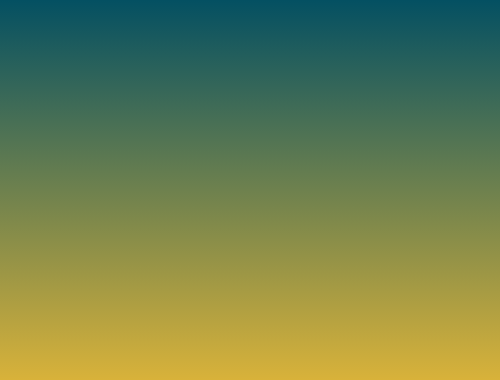
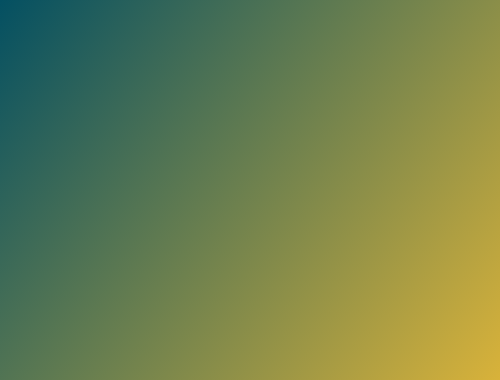
feat: add and update potion cards

diff --git a/scripts/gen_beta_art.py b/scripts/gen_beta_art.py
@@ -77,8 +77,8 @@ BAYER = [
 
 # Card -> (start color, end color, direction, family tag)
 # Cards in a family share the start color. Every pair must be unique;
-# the validate command enforces this. Verticals mark Basics and tokens.
-# Token cards all use a vertical gradient (U or D), which sets them apart from the deck at a glance
+# the validate command enforces this.
+# Direction encodes card type: Attack TR, Skill BR, Power R or L, token vertical (U or D)
 COLORS = {
     "Etch": ("#0b2a4a", "#5fd0e8", "TR", "Unique"),
     "Neurotoxin": ("#5f011f", "#b3bd2a", "TR", "Poison attacks"),
@@ -96,6 +96,7 @@ COLORS = {
     "Slag": ("#45293f", "#c98fd6", "R", "Unique"),
     # Antitoxin: the purple counterpart to the poison reds
     "Slake": ("#2f0170", "#8f6fd8", "TR", "Antitoxin"),
+    "Tincture": ("#2f0170", "#b89ae8", "BR", "Antitoxin"),
     # Poison attacks
     "Flare Up": ("#650101", "#d9b81e", "TR", "Poison attacks"),
     "Spatter": ("#650101", "#7ae801", "TR", "Poison attacks"),
@@ -144,10 +145,12 @@ COLORS = {
     # Potion: attacks
     "Fighting Spirits": ("#045062", "#bf8823", "TR", "Potion: attacks"),
     "Volatile Mix": ("#045062", "#a55d1e", "TR", "Potion: attacks"),
+    "Heavy Dose": ("#045062", "#8f2f2f", "TR", "Potion: attacks"),
     # Potion: engines
     "Bottled Fury": ("#045062", "#e58646", "R", "Potion: engines"),
     "Precipitate": ("#045062", "#e1542b", "BR", "Potion: engines"),
     "Windfall": ("#045062", "#c9dd52", "R", "Potion: engines"),
+    "Afterglow": ("#045062", "#f0c46a", "BR", "Potion: engines"),
     # Azoth (one-off)
     "Azoth": ("#1f1723", "#8a5f9e", "TR", "Unique"),
     # Fumigate (one-off)
@@ -158,7 +161,7 @@ COLORS = {
     "Anneal": ("#1f1723", "#7f9aa8", "BR", "Exhaust pile: skills"),
     # Poison as a resource to spend
     "Hemorrhage": ("#00212a", "#0d8a6b", "TR", "Poison payoffs"),
-    "Overflow": ("#00212a", "#10aba5", "TR", "Poison payoffs"),
+    "Overflow": ("#00212a", "#10aba5", "BR", "Poison payoffs"),
     "Circulation": ("#14424e", "#b8e86a", "BR", "Poison payoffs"),
     # Poison skills
     "Fester": ("#4e8701", "#0139b2", "BR", "Poison skills"),
@@ -210,9 +213,9 @@ COLORS = {
     # Defend (Basic)
     "Defend": ("#0f2a43", "#2b6ea8", "TR", "Unique"),
     # Spike (Basic): the starter dose, anchored on the Poison-attack red
-    "Spike": ("#650101", "#4fbf3a", "D", "Unique"),
+    "Spike": ("#650101", "#4fbf3a", "TR", "Unique"),
     # Flask (Basic): the starter brew, anchored on the potion teal
-    "Flask": ("#045062", "#d8b23a", "D", "Unique"),
+    "Flask": ("#045062", "#d8b23a", "BR", "Unique"),
     # Nigredo (token)
     # Albedo (token)
     # Rubedo (token)

diff --git a/AlchemistCode/Cards/Rare/Afterglow.cs b/AlchemistCode/Cards/Rare/Afterglow.cs
@@ -1,0 +1,46 @@
+using BaseLib.Utils;
+using MegaCrit.Sts2.Core.Combat;
+using MegaCrit.Sts2.Core.Combat.History.Entries;
+using MegaCrit.Sts2.Core.Commands;
+using MegaCrit.Sts2.Core.Entities.Cards;
+using MegaCrit.Sts2.Core.GameActions.Multiplayer;
+using MegaCrit.Sts2.Core.Localization;
+using System.Linq;
+
+namespace Alchemist.AlchemistCode.Cards.Rare;
+
+public class Afterglow : AlchemistCard
+{
+    public Afterglow() : base(2, CardType.Skill, CardRarity.Rare, TargetType.Self)
+    {
+        WithCostUpgradeBy(-1);
+        WithKeyword(CardKeyword.Exhaust);
+    }
+
+    // Combat history is shared, so the Actor filter keeps this to the owner's own Potions rather than
+    // counting an ally drinking in multiplayer
+    private int PotionsUsedThisCombat =>
+        !IsMutable || CombatState == null
+            ? 0
+            : CombatManager.Instance.History.Entries.OfType<PotionUsedEntry>()
+                .Count(e => e.Actor == Owner.Creature);
+
+    protected override bool ConditionalGlow => PotionsUsedThisCombat > 0;
+
+    protected override void AddExtraArgsToDescription(LocString description)
+    {
+        base.AddExtraArgsToDescription(description);
+        description.Add("UsedLine",
+            PotionsUsedThisCombat is var n and > 0
+                ? PreviewLine("ALCHEMIST-POTIONS_USED_LINE", "Potions", n)
+                : "");
+    }
+
+    protected override async Task OnPlay(PlayerChoiceContext choiceContext, CardPlay play)
+    {
+        var used = PotionsUsedThisCombat;
+        if (used <= 0) return;
+        await PlayerCmd.GainEnergy(used, Owner);
+        await CardPileCmd.Draw(choiceContext, used, Owner);
+    }
+}

diff --git a/AlchemistCode/Cards/Uncommon/Transmute.cs b/AlchemistCode/Cards/Uncommon/Transmute.cs
@@ -1,12 +1,13 @@
 using Alchemist.AlchemistCode.Compat;
+using Alchemist.AlchemistCode.Powers;
+using BaseLib.Utils;
 using MegaCrit.Sts2.Core.Commands;
 using MegaCrit.Sts2.Core.Entities.Cards;
 using MegaCrit.Sts2.Core.Entities.Potions;
 using MegaCrit.Sts2.Core.Factories;
 using MegaCrit.Sts2.Core.GameActions.Multiplayer;
-using MegaCrit.Sts2.Core.Models;
 using MegaCrit.Sts2.Core.Models.Powers;
-using Alchemist.AlchemistCode.Powers;
+using MegaCrit.Sts2.Core.Models;
 
 namespace Alchemist.AlchemistCode.Cards.Uncommon;
 
@@ -17,6 +18,7 @@ public class Transmute : AlchemistCard
     public Transmute() : base(0, CardType.Skill, CardRarity.Uncommon, TargetType.Self)
     {
         WithKeyword(CardKeyword.Exhaust);
+        WithCards(1, 1);
         WithTip(typeof(PoisonPower));
         WithTip(typeof(StrengthPower));
     }
@@ -31,15 +33,6 @@ public class Transmute : AlchemistCard
             await PowerCmd.Apply<TransmuteStrengthPower>(choiceContext, Owner.Creature, poison, Owner.Creature, this);
 
         if (reacted)
-        {
-            var rarity = IsUpgraded ? PotionRarity.Uncommon : PotionRarity.Common;
-            var rng = Owner.RunState.Rng.CombatPotionGeneration;
-            var options = GameCompat.GetPotionOptions(Owner)
-                .Where(p => p.CanBeGeneratedInCombat && p.Rarity == rarity)
-                .ToList();
-            var potion = rng.NextItem(options);
-            if (potion != null)
-                await PotionCmd.TryToProcure(potion.ToMutable(), Owner);
-        }
+            await CommonActions.Draw(this, choiceContext);
     }
 }

diff --git a/AlchemistCode/Cards/Uncommon/Tincture.cs b/AlchemistCode/Cards/Uncommon/Tincture.cs
@@ -1,0 +1,29 @@
+using BaseLib.Utils;
+using MegaCrit.Sts2.Core.Commands;
+using MegaCrit.Sts2.Core.Entities.Cards;
+using MegaCrit.Sts2.Core.GameActions.Multiplayer;
+using System.Linq;
+using Alchemist.AlchemistCode.Powers;
+
+namespace Alchemist.AlchemistCode.Cards.Uncommon;
+
+public class Tincture : AlchemistCard
+{
+    public Tincture() : base(1, CardType.Skill, CardRarity.Uncommon, TargetType.Self)
+    {
+        WithVar("flat", 2, 0);
+        WithVar("each", 3, 1);
+        WithTip(typeof(AntitoxinPower));
+    }
+
+    private int Potions => IsMutable && CombatState != null ? Owner.Potions.Count() : 0;
+
+    protected override bool ConditionalGlow => Potions > 0;
+
+    protected override async Task OnPlay(PlayerChoiceContext choiceContext, CardPlay play)
+    {
+        var total = DynamicVars["flat"].IntValue + DynamicVars["each"].IntValue * Owner.Potions.Count();
+        if (total <= 0) return;
+        await PowerCmd.Apply<AntitoxinPower>(choiceContext, Owner.Creature, total, Owner.Creature, this);
+    }
+}

diff --git a/AlchemistCode/Cards/Uncommon/HeavyDose.cs b/AlchemistCode/Cards/Uncommon/HeavyDose.cs
@@ -1,0 +1,27 @@
+using BaseLib.Utils;
+using MegaCrit.Sts2.Core.Commands;
+using MegaCrit.Sts2.Core.Entities.Cards;
+using MegaCrit.Sts2.Core.GameActions.Multiplayer;
+using MegaCrit.Sts2.Core.Models.Powers;
+using MegaCrit.Sts2.Core.ValueProps;
+using System.Linq;
+
+namespace Alchemist.AlchemistCode.Cards.Uncommon;
+
+public class HeavyDose : AlchemistCard
+{
+    public HeavyDose() : base(1, CardType.Attack, CardRarity.Uncommon, TargetType.AnyEnemy)
+    {
+        WithCalculatedDamage(6, 3, static (card, _) => card.Owner.Potions.Count(),
+            ValueProp.Move, 3, 0);
+        WithTip(typeof(PoisonPower));
+    }
+
+    protected override async Task OnPlay(PlayerChoiceContext choiceContext, CardPlay play)
+    {
+        var potions = Owner.Potions.Count();
+        await CommonActions.CardAttack(this, play, vfx: HitVfx("vfx/vfx_bloody_impact")).Execute(choiceContext);
+        if (potions > 0)
+            await PowerCmd.Apply<PoisonPower>(choiceContext, Owner.Creature, potions, Owner.Creature, this);
+    }
+}

diff --git a/AlchemistCode/Cards/Rare/Decoction.cs b/AlchemistCode/Cards/Rare/Decoction.cs
@@ -31,9 +31,6 @@ public class Decoction : AlchemistCard
         foreach (var card in selected)
             await CardCmd.Exhaust(choiceContext, card);
 
-        await PotionCmd.TryToProcure(
-            PotionFactory.CreateRandomPotionInCombat(Owner, Owner.RunState.Rng.CombatPotionGeneration).ToMutable(),
-            Owner);
 
         if (reacted)
             await Infusion.InfuseChosen(choiceContext, this, PileType.Hand, 1);

diff --git a/CHANGELOG.md b/CHANGELOG.md
@@ -15,6 +15,9 @@ mod).
 - Added the Antitoxin power: it absorbs damage from Poison and does not expire at the end of your turn
 - Added the Antitoxin Capacity power: it raises how much Antitoxin you can hold, above the base of 20
 - Added Slake card: "Deal 8 (11) damage. Gain 3 (4) Antitoxin."
+- Added Tincture card: "Gain 2 Antitoxin. Gain 3 (4) additional Antitoxin for each Potion you have."
+- Added Heavy Dose card: "Deal 6 (9) damage. For each Potion you have, deal 3 additional damage and gain 1 Poison."
+- Added Afterglow card: "Gain 1 Energy and draw 1 card for each Potion you have used this combat. Exhaust."
 
 ### Changed
 
@@ -45,6 +48,8 @@ mod).
 - Removed Plating from the deck. Vitrify, Sediment and Libation now grant Antitoxin when Enchanted
 - Reworked Etch card: "Deal 16 (20) damage. Gain 2 Poison." It no longer ignores Block
 - Changed Hemorrhage card: cost is now 1, and it deals 2 (3) times your Poison in damage instead of 3 times
+- Reworked Transmute card: its Reaction (Exhaust) now draws 1 (2) cards instead of procuring a Potion
+- Reworked Decoction card: it no longer procures a Potion
 
 ### Removed
 
